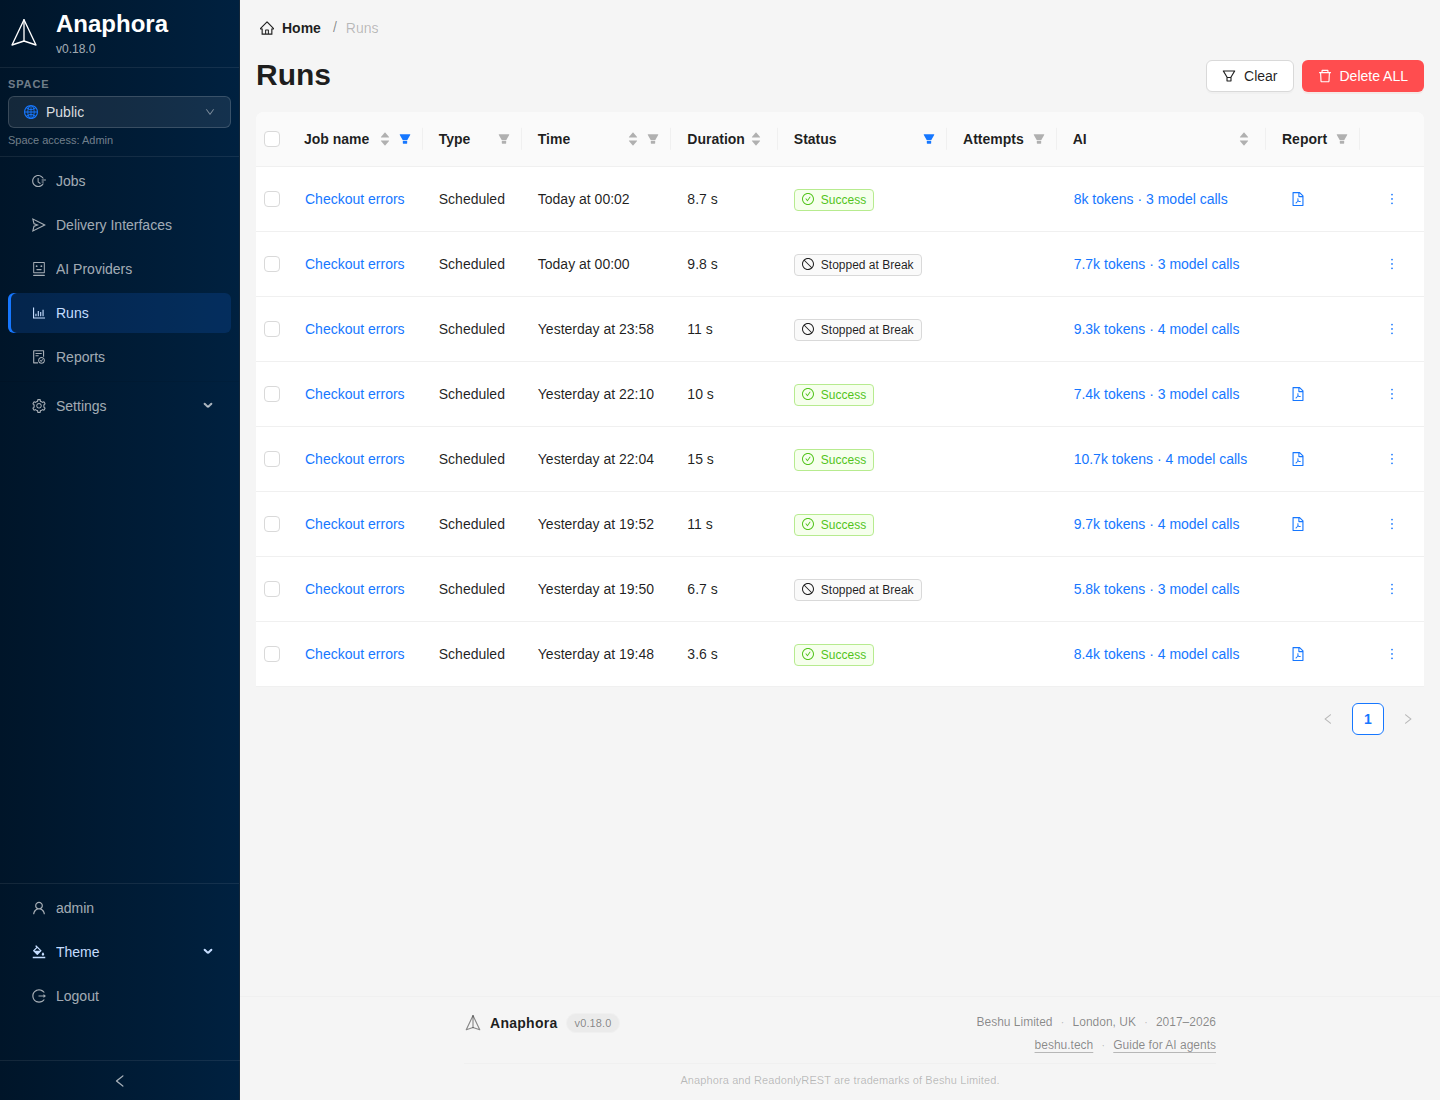
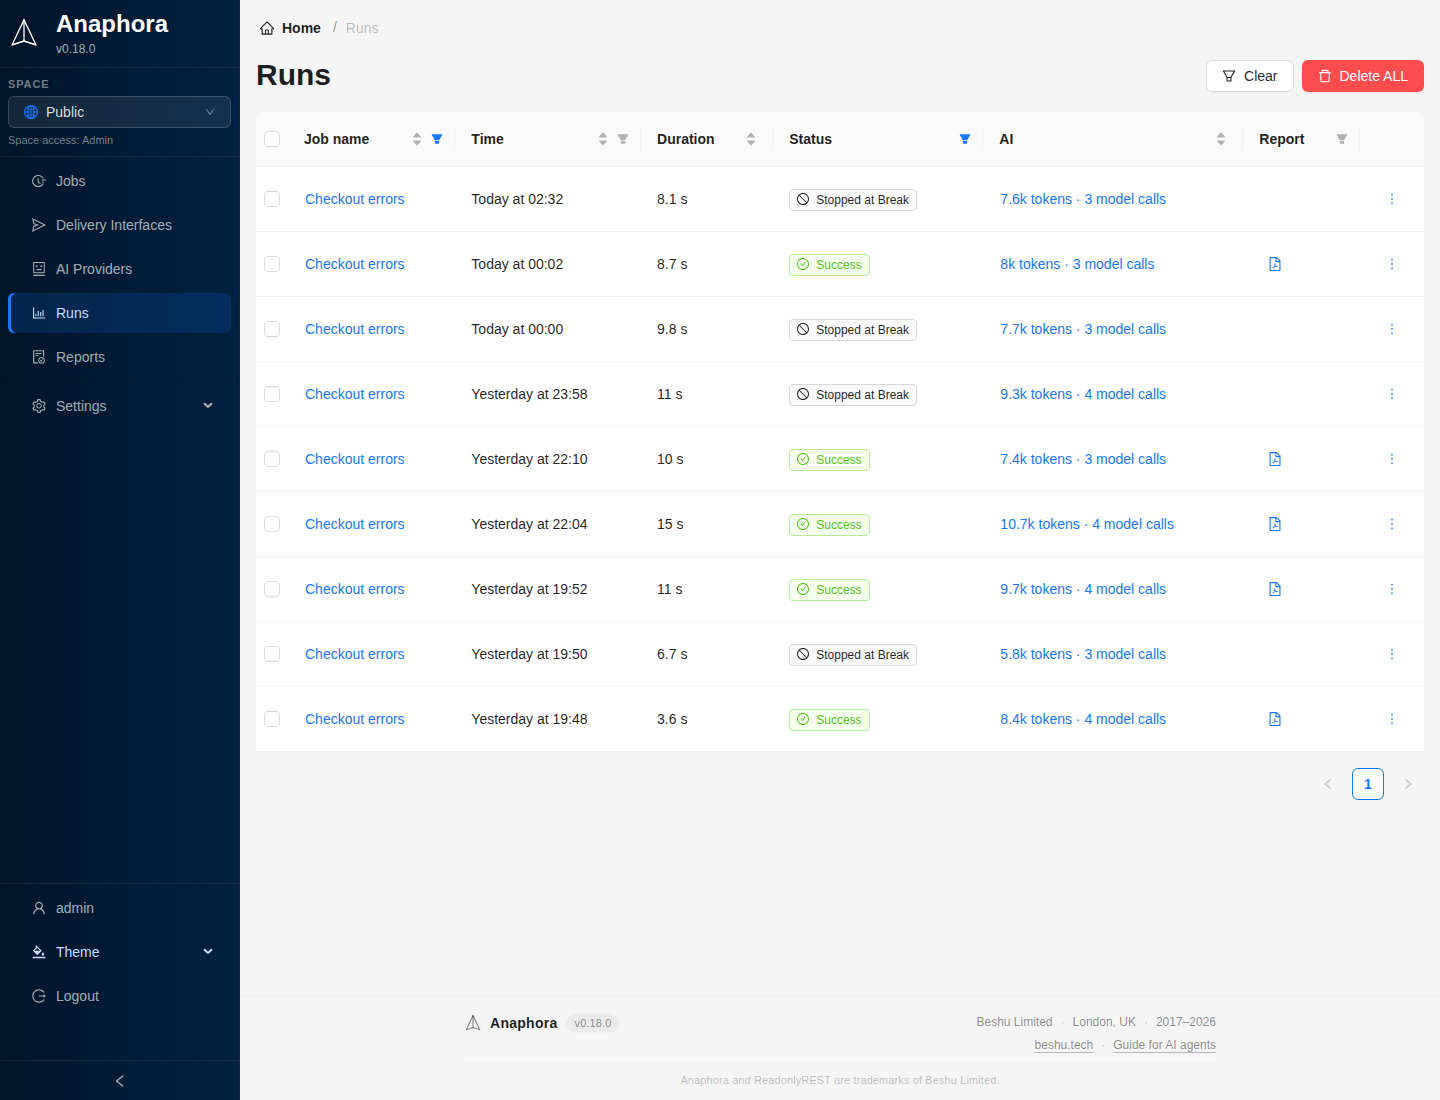
docs: Explain, the AI step log line and the Runs columns after F11
Explain this trial and Explain this run show only when at least one
model call finished. The assistant API answers 400 to explain for a
trace that no model call finished. The run log says when the token
budget refused a step before its first model call, or when a step
stopped before any model call finished. A limit stop with no finished
call says "before any model call finished".

On the Runs page, the Attempts column shows only when a run in the list
was retried, or when its filter is on. From 1,024 px, a two-word job
name stays on one line while Attempts does not show.

The two Runs screenshots come from the production build of develop
0f302d6e: no Type and no Attempts column at 1,440 px.

diff --git a/docs/jobs/ai-step.md b/docs/jobs/ai-step.md
@@ -405,8 +405,9 @@ The **Trial** panel shows:
 - the status: **Success**, a stop such as **Stopped at the token cap**, or **Error**, with the time, the model calls,
   the tool calls, the tokens and the duration, for example "3 model calls · 2 tool calls · 9,857 tokens · 14 s". A stop
   says whether the step kept values, for example "Stopped at the model call limit after 1 model call. Nothing was
-  filled." When no model call was made (for example the budget is spent), it says "No call was made." After an error,
-  **Details** shows the answer as the model wrote it;
+  filled." When no model call finished, the stop says so, for example "Stopped at the time limit before any model call
+  finished. Nothing was filled." When no model call was made (for example the budget is spent), it says "No call was
+  made." After an error, **Details** shows the answer as the model wrote it;
 - the values it ran on, for example "On the values of the run of Oct 10, 13:51. No page was opened, and nothing was
   saved or delivered.";
 - the value of each variable: a **yes/no** as Yes or No, and **HTML** as its text;
@@ -547,6 +548,9 @@ explanation is one model call with no tool: the assistant reads a short summary 
 nothing. The estimate adds about 3,800 tokens for the [hidden reasoning](#hidden-reasoning) of a model that thinks. It
 leaves them out when the trace shows no reasoning in any model call.
 
+**Explain this trial** shows only when at least one model call of the trial finished. When none finished, for example
+because the token budget of the provider is spent, there is nothing to explain: the status says why.
+
 The answer comes under **Explained by the assistant**, with suggestions: at most one for each section, as in the
 panel. **Apply** puts a suggestion into the step, and **Undo** takes it back. A proposal for the flow comes as a card,
 as in the panel. With nothing to change, it says "The assistant suggests no change." **Ask again** asks once more.
@@ -556,11 +560,11 @@ as in the panel. With nothing to change, it says "The assistant suggests no chan
 
 On the Runs page, the same button is **Explain this run**. There, a suggestion has **Open the step** instead of
 **Apply**: open the step, then make the change in the editor. **Explain this run** and **Open the step** need write
-access to the space.
+access to the space. As in a trial, **Explain this run** shows only when at least one model call of the run finished.
 
 ## Runs
 
-![The Runs page with the AI column: the tokens and the model calls of each run](images/ai-step-runs-column.png)
+![Two runs of Checkout errors on the Runs page, with the AI column: "7.6k tokens · 3 model calls" for the run of 02:32, Stopped at Break, and "8k tokens · 3 model calls" for the run of 00:02, Success](images/ai-step-runs-column.png)
 
 The **AI** column of the **Runs** page says what the AI steps of each run cost, for example "1.1k tokens · 2 model
 calls". Each phrase stays on one line: a narrow table breaks the cell only between them. Click its header to sort the
@@ -572,7 +576,8 @@ no AI step shows "no AI".
 Click the cell to open the **AI trace** of the run. It has the same content as a trial: the status, **Why, in its
 words**, the variables, the notebook, every model call, and the limits of the run, for example "Limits of this run: 8
 model calls, 12 tool calls, 29,000 tokens and 150 seconds; a limit fails the run." It also has **Compare** with the
-previous run of the job, **Explain this run**, and **Open the step**, which opens the step in the editor.
+previous run of the job, **Explain this run** when a model call of the run finished, and **Open the step**, which opens
+the step in the editor.
 
 ![The AI trace of the run of Oct 12, 02:32: Success; Why, in its words; the variables, with page_now No; the notebook that the run saved, and the version it read; the previous run with Compare; the limits of the run, with 29,000 tokens and 150 seconds; the three model calls with their reasoning tokens; Explain this run, "An explanation costs about 10,700 tokens."; and Open the step](images/ai-step-trace-popup.png)
 

diff --git a/docs/data-retention/runs.md b/docs/data-retention/runs.md
@@ -6,7 +6,7 @@ keywords: [ job runs, execution history, run status, debugging, job monitoring, 
 
 # Runs
 
-![The Runs page with two filters on, the job Checkout errors and the statuses Success and Stopped at Break: Clear next to Delete ALL, and the columns Job name, Type, Time, Duration, Status, Attempts, AI and Report](images/runs.png)
+![The Runs page with two filters on, the job Checkout errors and the statuses Success and Stopped at Break: Clear next to Delete ALL, and the columns Job name, Time, Duration, Status, AI and Report](images/runs.png)
 
 The Runs section shows the execution history of your jobs, including successful captures, failures, and delivery status.
 
@@ -34,10 +34,14 @@ When a filter or a sort is on, **Clear**, at the top of the page next to **Delet
 
 The **AI** column says what the AI steps of each run cost: see [Runs](../jobs/ai-step.md#runs).
 
+In a window from 1,024 px wide, a job name of two words, such as "Checkout errors", stays on one line while the
+**Attempts** column does not show.
+
 ## Retries and attempts
 
 A retry is not a separate run. Anaphora lists the retries under the run that failed first, and the **Attempts** column
-counts them. When you delete a run, its retries and their files go with it.
+counts them. The column shows only when a run in the list, on any page, was retried, or when its filter is on. When you
+delete a run, its retries and their files go with it.
 
 The **Status** and **Report** filters read the latest attempt of a run. So a run whose retry succeeded is listed as a
 success.

diff --git a/docs/jobs/delivery.md b/docs/jobs/delivery.md
@@ -152,7 +152,11 @@ Every delivery config includes a test button: **Run with test email** for SMTP a
 and S3 Object Storage. Use it to verify the configuration before you save the job. **Test run without delivery** runs the job
 and shows the output without notifying any recipients. A test withholds a report with a broken text block in the same
 way, and says so. Anaphora logs all steps of the capture and delivery process for troubleshooting. Each AI step adds
-one line, for example `AI step "Rate the errors" answered after 2 model calls: 1,234 tokens, 4.1 s.`
+one line, for example `AI step "Rate the errors" answered after 2 model calls: 1,234 tokens, 4.1 s.` When the
+token budget of the provider refused the step, the line is `AI step "Rate the errors" failed: the provider's token
+budget refused it before its first model call, 0.0 s.` When the step stopped or failed before any model call finished
+for another cause, the line says so, for example `AI step "Rate the errors" stopped at the time limit before any
+model call finished, 150.0 s.`
 Select **Debug test run** in the button menu to also receive a video of the capture process.
 
 ## Next steps

diff --git a/docs/administration/agent-api.md b/docs/administration/agent-api.md
@@ -103,6 +103,10 @@ Send `nextActions`, the actions after the step, to the assistant: it then propos
 **Break** that the flow already has. An assistant estimate (`estimate: true`) of a chat that may try the step (its last
 message asks for a trial, or `mayTry: true`) counts three model calls, else two.
 
+The assistant answers 400 to `mode: "explain"` with a trace that no model call finished (`steps` empty and
+`usage.hasUsage` false, for example a spent budget): "No model call of this trace finished: there is nothing to explain.
+Its `error` says why."
+
 Send the values of a Test capture with its `startedAt`: the model is told when its values were captured. Without it,
 the model gets the start of the trial. The `answerFormat` of a preview says how the request asks for the answer
 (`schema`, `jsonObject` or `instructions`); `outputSchema` is there only when the request sends it.
